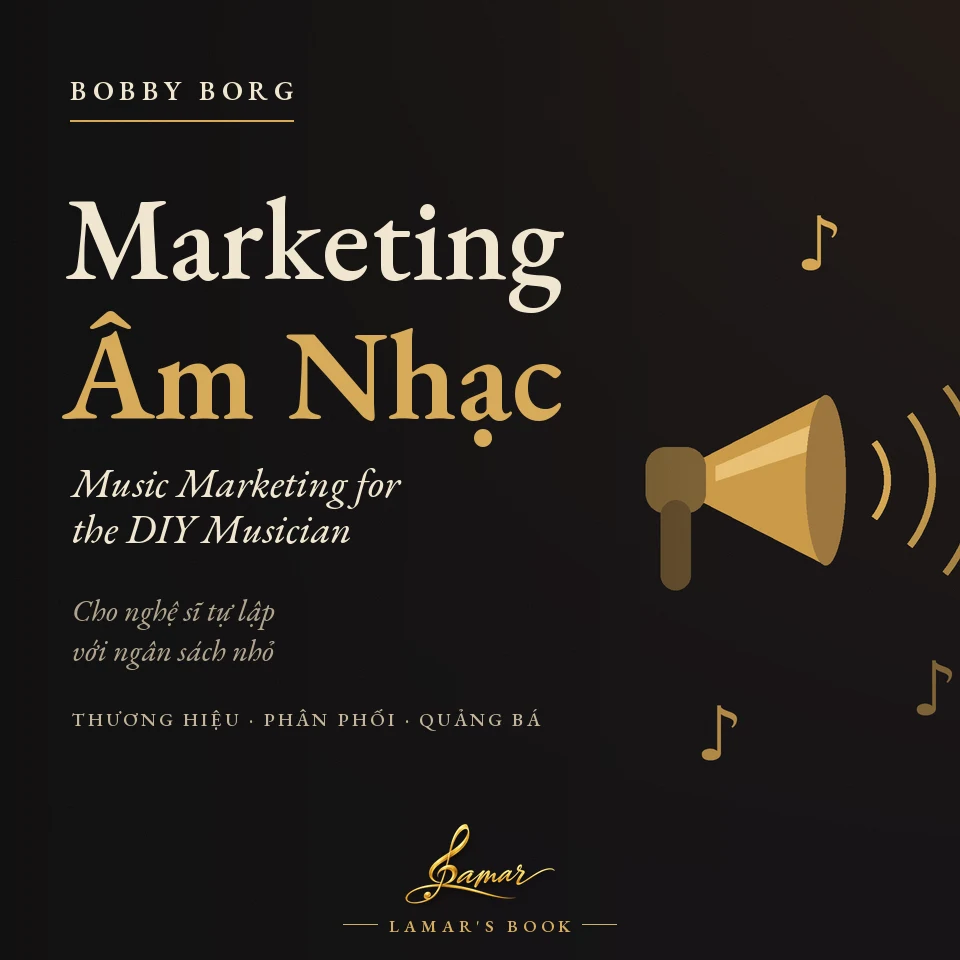
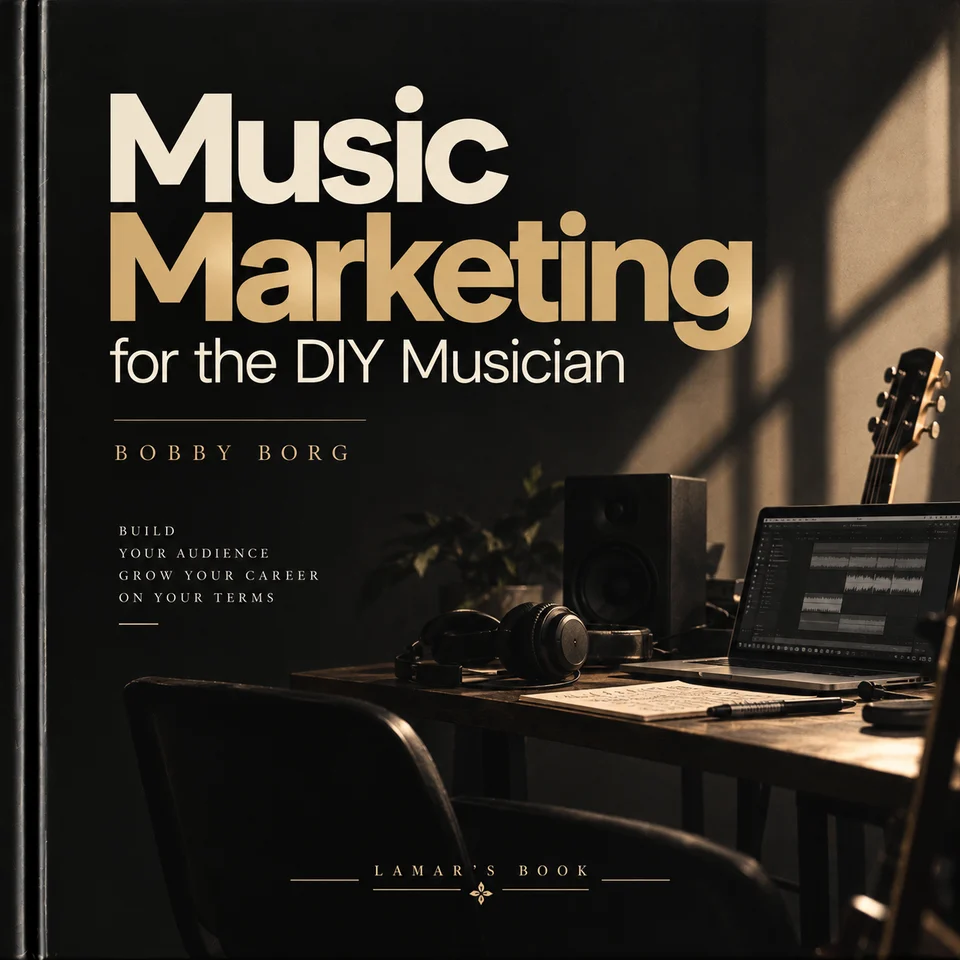
Bìa Marketing Âm Nhạc: dùng ảnh bìa Lamar gửi
Claude-Session: https://claude.ai/code/session_016DXmRVDzV1tugYS6YgVYK3

diff --git a/CLAUDE.md b/CLAUDE.md
@@ -47,7 +47,7 @@ npx tsc -b && npm run lint && npm run check:links && npm run build
 - **Nhạc mở đầu:** `components/introMusic.ts` phát chương IV Giao hưởng số 9 của Dvořák từ đúng nốt Mi đầu câu chủ đề kèn đồng (giây 16,08 của file gốc, dò cao độ) tới 44,5 s — 28,4 s, tắt dần cuối (`public/media/intro-dvorak9.{m4a,ogg}` — m4a cho Safari/Chrome, ogg Opus cho trình duyệt không chơi AAC; cắt từ file mp3 Lamar gửi; theo Lamar là bản Antal Doráti chỉ huy (file không có thẻ, chưa rõ dàn nhạc, năm thu; bản thu thương mại nên còn bản quyền)): mở dần khi vào màn khoá: trình duyệt cho tự phát thì phát thẳng `<audio>` (mờ dần bằng `audio.volume`, không tạo AudioContext vì nó sẽ bị treo ở trạng thái suspended khi chưa có cú chạm — lỗi cũ: chạy mà không ra tiếng); bị chặn thì nút loa nhấp nháy "Chạm để nghe nhạc" và cú chạm/phím đầu dựng Web Audio (iOS bỏ qua `audio.volume`) rồi phát từ đầu; tắt dần 2,2 s khi nhập đúng mã (`App.tsx`); nút loa góc trên trái màn khoá, nhớ tắt/bật ở localStorage `intro:muted`; Save-Data thì không phát.
 - **Logo:** chữ ký vàng "Lamar" (khoá Sol) trên nền đen — `BrandMark` trong `components/icons.tsx` dùng `src/assets/logo-mark.webp`; icon PWA/màn hình chính ở `public/icons/` (192, 512, maskable 512 có lề an toàn, `apple-touch-icon.png` 180), favicon `public/favicon.png`.
 - `src/features/onboarding/` — tour hướng dẫn (bước ở `Onboarding.tsx`, rọi vào phần tử `data-tour`; tự mở lần đầu sau khi mở khoá, mở lại ở Cài đặt → Hướng dẫn sử dụng). `src/features/search/` — bảng lệnh ⌘K tìm toàn app.
-- `src/features/curriculum/` — **Tủ sách** (tab điều hướng tên "Tủ sách", route vẫn `/curriculum`; dưới cover flow sách xếp theo **chủ đề** ở `shelfTopics.ts` (`SHELF_TOPICS`: id, `short` cho thanh chủ đề dính `TopicIndex`, tiêu đề, mô tả, danh sách id sách; sách chưa gán chủ đề tự vào "Sách khác"; cover flow dùng `SHELF_BOOKS` cùng thứ tự) — mỗi chủ đề là `TopicSection` (số thứ tự 01, 02… nghiêng vàng, eyebrow, tiêu đề serif, đường kẻ vàng) + lưới thẻ `ShelfBook` (`shelf-card`, ánh màu theo hue sách); CSS `topic-*`, `shelf-card*`, `shelf-btn` ở `motion-books.css`; **sách mới nhớ thêm id vào đúng chủ đề**) (đầu trang `/curriculum` là header căn giữa **Lamar's Book** trong `Shelf` của `CurriculumPage.tsx`: logo `logo-full.webp` + dòng LAMAR'S BOOK, tiêu đề, giới thiệu mục đích tủ sách, viên số sách/giáo trình; CSS `lamars-*` ở `motion-books.css`, giao diện sáng làm tối logo bằng `filter`): giáo trình piano người lớn theo cấp (`curricula.ts`), bộ 6 cuốn Piano & Nhạc lý cho Trẻ em (`kids/books.ts`, xem trên) và 17 sách lý thuyết trong `books.ts` (cả *Jazz Licks* và *Solfège*, xem trên) (thêm *The Jazz Theory Book — by Lamar*, **4 tập** cắt từ hằng `JAZZ_PARTS` (13 phần, 72 chương gom mọi bài mục `jazz` + bài liên quan ở mục khác, theo lộ trình hub `hoa-am-jazz`): id `jazz-theory-book-1` (Tập 1 Nền tảng, phần I–IV; id cũ `jazz-theory-book` của cuốn gộp được chuyển hướng, vị trí đọc/dấu trang/ghi chú cũ tự chia về đúng tập qua `jazzVolumeOf`/`splitOldJazz`), `jazz-theory-book-2` (Hoà âm và thế bấm, V–VII), `-3` (Tái hoà âm và hình thức, VIII–IX), `-4` (Ngẫu hứng và sáng tác, X–XIII); bìa `jazz-theory-book-1..4.webp` (bìa gốc + nhãn VOLUME), lời nói đầu chung `jazzPreface(n, phạm vi)`; Lamar soạn 100% — bài jazz không ghi nguồn The Jazz Piano Site, không dùng "theo TJPS") (thêm *Nghệ Thuật Chơi Piano — Heinrich Neuhaus*, id `neuhaus`, bìa `neuhaus.webp`, theo bộ bài `content/neuhaus-*.ts`: hub `neuhaus-lo-trinh` (bài tổng quan cũ `neuhaus-nghe-thuat-choi-piano` ở musicianship.ts giữ nguyên) + 12 bài theo chương, đọc từ epub bản Anh Kahn & Averill 1993 Lamar gửi, đối chiếu bản dịch Việt; ví dụ nhạc `::scan neuhaus #n` — 155 hình cắt từ epub) (thêm *Về Cái Đẹp Trong Âm Nhạc — Eduard Hanslick*, id `hanslick`, bìa `hanslick.webp` (chân dung phạm vi công cộng từ Commons), theo bộ bài `content/hanslick-*.ts` mục `musicology` (also `philosophy`): hub `hanslick-lo-trinh` + 11 bài theo 7 chương + bài di sản, đọc bằng OCR từ bản quét Cohen/Weitz 1957 trên ibiblio, trích dịch sát bản Anh và ghi trang ấn bản Weitz; các đoạn định kiến (phụ nữ, người Ý, "man dã") thuật đúng và ghi rõ là định kiến; nhóm riêng trong nhánh Mỹ học của `musicology/taxonomy.ts`) (thêm *Thế Giới Như Là Ý Chí Và Biểu Tượng — Arthur Schopenhauer*, id `schopenhauer`, bìa `schopenhauer.webp` (ảnh J. Schäfer 1859, phạm vi công cộng), theo bộ bài `content/schopenhauer-*.ts` mục `musicology` (also `philosophy`): hub `schopenhauer-lo-trinh` (bảng thuật ngữ Vorstellung = biểu tượng, Idee = Ý niệm…) + 13 bài: tiểu sử – lời tựa, Quyển I, II tóm gọn; Quyển III đọc theo đoạn §30 – 51 (6 bài); §52 âm nhạc 2 bài (bè trầm – bè giữa – giai điệu ↔ các bậc tự nhiên; giai điệu rời/trở về âm chủ, trưởng – thứ, chuyển giọng, lời ca – opera, universalia ante rem); Quyển IV; di sản (Wagner theo Wikipedia, ảnh hưởng theo SEP, so với Hanslick). Đọc bằng OCR bản quét Payne/Dover 1969 tập I Lamar gửi, trích dịch sát bản Anh, ghi trang Payne; tập II không có trong bản quét — các chương bổ sung Quyển III đọc từ bản Haldane & Kemp (Gutenberg #40868, tập III, phạm vi công cộng, ghi theo chương): `content/schopenhauer-f.ts` gồm 2 bài ch. XXXIX (`schopenhauer-sieu-hinh-hoc-am-nhac`, `schopenhauer-nhip-giai-dieu-va-nghich-am` — có ví dụ nhạc của chính Schopenhauer) và `schopenhauer-bo-sung-quyen-ba` (ch. XXIX – XXXVIII); phần âm nhạc (§52, ch. XXXIX) và trích dẫn chương bổ sung đã đối chiếu nguyên văn Đức (Zürcher Ausgabe trên zeno.org) — bảng "Đối chiếu nguyên văn" trong hai bài §52; hai câu bài Do Thái (§48 tr. 232, §51 tr. 254) thuật đúng và ghi rõ là định kiến; nhóm riêng trong nhánh Mỹ học của `musicology/taxonomy.ts`) (thêm *Quản Lý Nghệ Sĩ Trong Kinh Doanh Âm Nhạc — Paul Allen*, id `quan-ly-nghe-si`, bìa `quan-ly-nghe-si.webp` (vẽ bằng PIL — sân khấu, đèn rọi, micro, khán giả; không dùng ảnh), theo bộ bài `content/allen-*.ts` mục `musicology`: hub `quan-ly-nghe-si-lo-trinh` + 14 bài theo 14 chương bản 5 (Routledge 2022, epub Lamar gửi; nguồn `allen-refs.ts`), slug `quan-ly-nghe-si-*`; sách còn bản quyền nên bài tóm lược bằng lời mình, trích ngắn kèm số trang bản in; chỗ sách sai/lỗi thời ghi rõ trong bài (SoundExchange thu cho bản ghi; tác quyền cơ học Mỹ 12 xu từ 2023; quỹ Coogan California 15%; câu "Michelangelo" không nguồn); luật Mỹ có ghi chú ngắn về Việt Nam (Luật SHTT, VCPMC); nhóm riêng trong nhánh "Đại chúng, màn ảnh và thị trường" của `musicology/taxonomy.ts`) (thêm *Cỗ Máy Hãng Đĩa — Nick Sadler*, id `co-may-hang-dia`, bìa `co-may-hang-dia.webp` (vẽ bằng PIL — đĩa than, nhãn hình bánh răng; script `scratchpad/acover/mk_l.py` dùng `badge.py`), theo bộ bài `content/hang-dia-*.ts` mục `musicology`: hub `hang-dia-lo-trinh` + 15 bài `hang-dia-*` theo *The Label Machine* bản 2025 (Velocity Press, epub Lamar gửi; nguồn `hang-dia-refs.ts`); 5 phần: ngành nhạc, bản quyền, dựng hãng, phát hành – tiếp thị, trưởng thành; sách còn bản quyền nên tóm lược bằng lời mình, trích ngắn kèm số trang bản in; mức phí dịch vụ ghi "theo sách"; lược phần quảng cáo nền tảng của tác giả (ghi là xung đột lợi ích); chỗ sửa: tác quyền cơ học Mỹ 2025 là 12,7 xu (sách 12,4), ngưỡng YouTube 500 người chỉ mở gây quỹ (quảng cáo cần 1.000), câu "giữa kích thích và phản ứng" không phải của Frankl, binaural beats bằng chứng còn hạn chế, Ashley Wilde là nhân vật minh hoạ; nhóm riêng trong nhánh "Đại chúng, màn ảnh và thị trường" của `musicology/taxonomy.ts`) (thêm *Marketing Âm Nhạc Cho Nghệ Sĩ Tự Lập — Bobby Borg*, id `marketing-diy`, bìa `marketing-diy.webp` (vẽ bằng PIL — loa phóng thanh, sóng âm; script `scratchpad/acover/mk_m.py`), theo bộ bài `content/borg-*.ts` mục `musicology`: hub `marketing-diy-lo-trinh` + 22 bài `marketing-diy-*` theo 22 chương *Music Marketing for the DIY Musician* bản 2 (Rowman & Littlefield 2020, epub Lamar gửi; nguồn `borg-refs.ts`); 5 phần: nghiên cứu – mục tiêu, thương hiệu – sản phẩm – giá, phân phối, quảng bá, đo lường – kế hoạch – thực thi; sách còn bản quyền nên tóm lược bằng lời mình, trích ngắn kèm số trang bản in, không chép mẫu điền / kế hoạch mẫu / danh mục dịch vụ; ghi rõ dịch vụ đã đóng/đổi tên (PledgeMusic, Arbitron, AdWords, E3, Yahoo Groups), câu Wanamaker chưa có bằng chứng, lỗi tên (Clandini → Cialdini, Goodwin → Godin), bảng tính cộng lệch, phỏng vấn mang tính quảng cáo (TAXI, Indie Bible); nhóm riêng trong nhánh "Đại chúng, màn ảnh và thị trường" của `musicology/taxonomy.ts`) (thêm *Âm Nhạc Việt Nam*, id `am-nhac-viet-nam`, bìa `am-nhac-viet-nam.webp` (ảnh bìa Lamar gửi, đã có sẵn dòng LAMAR'S BOOK), 12 phần – 114 chương gom mọi bài mục `vietnam` + bài Việt Nam ở mục khác (nhạc khí `organology`, `am-giai-ngu-cung`, `tan-nhac-viet-nam`, `piano-viet-nam`, `dem-dieu-viet-nam`, `viet-cho-loi-ca`, `sang-tac-voi-chat-lieu-viet`, `di-san-phi-vat-the-va-am-nhac`…): nhập môn → cổ – trung đại → lý thuyết cổ truyền → dân ca – tín ngưỡng → thính phòng – sân khấu → nhạc khí → tân nhạc → 1945 – 1975 → sau 1975 → hai phần chân dung nhạc sĩ theo năm sinh → thực hành – nghiên cứu – đề cương ôn thi; bài Việt Nam mới nhớ thêm vào đúng phần) (thêm *Hình Thức Âm Nhạc — Trường phái Nga – Xô viết*, id `hinh-thuc-am-nhac`, bìa `hinh-thuc-am-nhac.webp`) (*Nhạc Lý Cơ Bản* Quyển 1 – 2; *Hoà Âm Cổ Điển — Trường phái Nga – Xô viết* theo thứ tự chủ đề sách bốn tác giả Dubovsky – Evseev – Sposobin – Sokolov, bìa ảnh `src/assets/covers/hoa-am-co-dien.webp` qua `coverImage`; *Phức Điệu Nghiêm Khắc — Sergei Taneev* chỉ hệ Taneyev theo giáo trình Nhạc viện Hà Nội (Phạm Tú Hương 1991), bìa `phuc-dieu-nghiem-khac.webp`; *Những Bước Lên Đỉnh Parnassus — Johann Joseph Fux* (id `doi-am-fux`) chỉ hệ Fux, bìa `doi-am-fux.webp`. *Bass Đi Liên Tục, Hoà Âm và Sáng Tác — J. G. Albrechtsberger* (id `albrechtsberger`, bìa `albrechtsberger.webp`), 10 phần theo ba tập bản Novello 1855. Hai hệ tách riêng cả sách lẫn bài: bài hệ Taneyev không chứa nội dung Fux và ngược lại, chỉ giữ link chéo một dòng): phần → bài = slug bài thư viện, lời nói đầu, bài tập cuối phần. **Bìa:** sách Lamar tự soạn (Nhạc Lý Cơ Bản 1 – 2 `nhac-ly-co-ban-{1,2}.webp`, hai giáo trình piano `piano-tre-em.webp` / `piano-nguoi-lon.webp` qua `Curriculum.coverImage`, Jazz, Hoà Âm Cổ Điển, Phức Điệu) ghi "by Lamar"; sách đọc theo tác giả khác (Albrechtsberger, Fux, Hình thức, Neuhaus, Hanslick, Schopenhauer, Allen) không ghi "Lamar biên soạn" mà có dấu **Lamar's book** (chữ ký vàng `logo-full.webp` + dòng LAMAR'S BOOK) ở giữa phía dưới, nướng thẳng vào ảnh webp. Mọi sách và giáo trình có "Lời nói đầu" mở bằng `foreword()` (Lamar biên soạn – tổng hợp, Lamar hướng đến) và trang "Về tác giả" (`ABOUT_AUTHOR`). Tick "đã học" lưu localStorage.
+- `src/features/curriculum/` — **Tủ sách** (tab điều hướng tên "Tủ sách", route vẫn `/curriculum`; dưới cover flow sách xếp theo **chủ đề** ở `shelfTopics.ts` (`SHELF_TOPICS`: id, `short` cho thanh chủ đề dính `TopicIndex`, tiêu đề, mô tả, danh sách id sách; sách chưa gán chủ đề tự vào "Sách khác"; cover flow dùng `SHELF_BOOKS` cùng thứ tự) — mỗi chủ đề là `TopicSection` (số thứ tự 01, 02… nghiêng vàng, eyebrow, tiêu đề serif, đường kẻ vàng) + lưới thẻ `ShelfBook` (`shelf-card`, ánh màu theo hue sách); CSS `topic-*`, `shelf-card*`, `shelf-btn` ở `motion-books.css`; **sách mới nhớ thêm id vào đúng chủ đề**) (đầu trang `/curriculum` là header căn giữa **Lamar's Book** trong `Shelf` của `CurriculumPage.tsx`: logo `logo-full.webp` + dòng LAMAR'S BOOK, tiêu đề, giới thiệu mục đích tủ sách, viên số sách/giáo trình; CSS `lamars-*` ở `motion-books.css`, giao diện sáng làm tối logo bằng `filter`): giáo trình piano người lớn theo cấp (`curricula.ts`), bộ 6 cuốn Piano & Nhạc lý cho Trẻ em (`kids/books.ts`, xem trên) và 17 sách lý thuyết trong `books.ts` (cả *Jazz Licks* và *Solfège*, xem trên) (thêm *The Jazz Theory Book — by Lamar*, **4 tập** cắt từ hằng `JAZZ_PARTS` (13 phần, 72 chương gom mọi bài mục `jazz` + bài liên quan ở mục khác, theo lộ trình hub `hoa-am-jazz`): id `jazz-theory-book-1` (Tập 1 Nền tảng, phần I–IV; id cũ `jazz-theory-book` của cuốn gộp được chuyển hướng, vị trí đọc/dấu trang/ghi chú cũ tự chia về đúng tập qua `jazzVolumeOf`/`splitOldJazz`), `jazz-theory-book-2` (Hoà âm và thế bấm, V–VII), `-3` (Tái hoà âm và hình thức, VIII–IX), `-4` (Ngẫu hứng và sáng tác, X–XIII); bìa `jazz-theory-book-1..4.webp` (bìa gốc + nhãn VOLUME), lời nói đầu chung `jazzPreface(n, phạm vi)`; Lamar soạn 100% — bài jazz không ghi nguồn The Jazz Piano Site, không dùng "theo TJPS") (thêm *Nghệ Thuật Chơi Piano — Heinrich Neuhaus*, id `neuhaus`, bìa `neuhaus.webp`, theo bộ bài `content/neuhaus-*.ts`: hub `neuhaus-lo-trinh` (bài tổng quan cũ `neuhaus-nghe-thuat-choi-piano` ở musicianship.ts giữ nguyên) + 12 bài theo chương, đọc từ epub bản Anh Kahn & Averill 1993 Lamar gửi, đối chiếu bản dịch Việt; ví dụ nhạc `::scan neuhaus #n` — 155 hình cắt từ epub) (thêm *Về Cái Đẹp Trong Âm Nhạc — Eduard Hanslick*, id `hanslick`, bìa `hanslick.webp` (chân dung phạm vi công cộng từ Commons), theo bộ bài `content/hanslick-*.ts` mục `musicology` (also `philosophy`): hub `hanslick-lo-trinh` + 11 bài theo 7 chương + bài di sản, đọc bằng OCR từ bản quét Cohen/Weitz 1957 trên ibiblio, trích dịch sát bản Anh và ghi trang ấn bản Weitz; các đoạn định kiến (phụ nữ, người Ý, "man dã") thuật đúng và ghi rõ là định kiến; nhóm riêng trong nhánh Mỹ học của `musicology/taxonomy.ts`) (thêm *Thế Giới Như Là Ý Chí Và Biểu Tượng — Arthur Schopenhauer*, id `schopenhauer`, bìa `schopenhauer.webp` (ảnh J. Schäfer 1859, phạm vi công cộng), theo bộ bài `content/schopenhauer-*.ts` mục `musicology` (also `philosophy`): hub `schopenhauer-lo-trinh` (bảng thuật ngữ Vorstellung = biểu tượng, Idee = Ý niệm…) + 13 bài: tiểu sử – lời tựa, Quyển I, II tóm gọn; Quyển III đọc theo đoạn §30 – 51 (6 bài); §52 âm nhạc 2 bài (bè trầm – bè giữa – giai điệu ↔ các bậc tự nhiên; giai điệu rời/trở về âm chủ, trưởng – thứ, chuyển giọng, lời ca – opera, universalia ante rem); Quyển IV; di sản (Wagner theo Wikipedia, ảnh hưởng theo SEP, so với Hanslick). Đọc bằng OCR bản quét Payne/Dover 1969 tập I Lamar gửi, trích dịch sát bản Anh, ghi trang Payne; tập II không có trong bản quét — các chương bổ sung Quyển III đọc từ bản Haldane & Kemp (Gutenberg #40868, tập III, phạm vi công cộng, ghi theo chương): `content/schopenhauer-f.ts` gồm 2 bài ch. XXXIX (`schopenhauer-sieu-hinh-hoc-am-nhac`, `schopenhauer-nhip-giai-dieu-va-nghich-am` — có ví dụ nhạc của chính Schopenhauer) và `schopenhauer-bo-sung-quyen-ba` (ch. XXIX – XXXVIII); phần âm nhạc (§52, ch. XXXIX) và trích dẫn chương bổ sung đã đối chiếu nguyên văn Đức (Zürcher Ausgabe trên zeno.org) — bảng "Đối chiếu nguyên văn" trong hai bài §52; hai câu bài Do Thái (§48 tr. 232, §51 tr. 254) thuật đúng và ghi rõ là định kiến; nhóm riêng trong nhánh Mỹ học của `musicology/taxonomy.ts`) (thêm *Quản Lý Nghệ Sĩ Trong Kinh Doanh Âm Nhạc — Paul Allen*, id `quan-ly-nghe-si`, bìa `quan-ly-nghe-si.webp` (vẽ bằng PIL — sân khấu, đèn rọi, micro, khán giả; không dùng ảnh), theo bộ bài `content/allen-*.ts` mục `musicology`: hub `quan-ly-nghe-si-lo-trinh` + 14 bài theo 14 chương bản 5 (Routledge 2022, epub Lamar gửi; nguồn `allen-refs.ts`), slug `quan-ly-nghe-si-*`; sách còn bản quyền nên bài tóm lược bằng lời mình, trích ngắn kèm số trang bản in; chỗ sách sai/lỗi thời ghi rõ trong bài (SoundExchange thu cho bản ghi; tác quyền cơ học Mỹ 12 xu từ 2023; quỹ Coogan California 15%; câu "Michelangelo" không nguồn); luật Mỹ có ghi chú ngắn về Việt Nam (Luật SHTT, VCPMC); nhóm riêng trong nhánh "Đại chúng, màn ảnh và thị trường" của `musicology/taxonomy.ts`) (thêm *Cỗ Máy Hãng Đĩa — Nick Sadler*, id `co-may-hang-dia`, bìa `co-may-hang-dia.webp` (vẽ bằng PIL — đĩa than, nhãn hình bánh răng; script `scratchpad/acover/mk_l.py` dùng `badge.py`), theo bộ bài `content/hang-dia-*.ts` mục `musicology`: hub `hang-dia-lo-trinh` + 15 bài `hang-dia-*` theo *The Label Machine* bản 2025 (Velocity Press, epub Lamar gửi; nguồn `hang-dia-refs.ts`); 5 phần: ngành nhạc, bản quyền, dựng hãng, phát hành – tiếp thị, trưởng thành; sách còn bản quyền nên tóm lược bằng lời mình, trích ngắn kèm số trang bản in; mức phí dịch vụ ghi "theo sách"; lược phần quảng cáo nền tảng của tác giả (ghi là xung đột lợi ích); chỗ sửa: tác quyền cơ học Mỹ 2025 là 12,7 xu (sách 12,4), ngưỡng YouTube 500 người chỉ mở gây quỹ (quảng cáo cần 1.000), câu "giữa kích thích và phản ứng" không phải của Frankl, binaural beats bằng chứng còn hạn chế, Ashley Wilde là nhân vật minh hoạ; nhóm riêng trong nhánh "Đại chúng, màn ảnh và thị trường" của `musicology/taxonomy.ts`) (thêm *Marketing Âm Nhạc Cho Nghệ Sĩ Tự Lập — Bobby Borg*, id `marketing-diy`, bìa `marketing-diy.webp` (ảnh bìa Lamar gửi, 960 px, đã có LAMAR'S BOOK), theo bộ bài `content/borg-*.ts` mục `musicology`: hub `marketing-diy-lo-trinh` + 22 bài `marketing-diy-*` theo 22 chương *Music Marketing for the DIY Musician* bản 2 (Rowman & Littlefield 2020, epub Lamar gửi; nguồn `borg-refs.ts`); 5 phần: nghiên cứu – mục tiêu, thương hiệu – sản phẩm – giá, phân phối, quảng bá, đo lường – kế hoạch – thực thi; sách còn bản quyền nên tóm lược bằng lời mình, trích ngắn kèm số trang bản in, không chép mẫu điền / kế hoạch mẫu / danh mục dịch vụ; ghi rõ dịch vụ đã đóng/đổi tên (PledgeMusic, Arbitron, AdWords, E3, Yahoo Groups), câu Wanamaker chưa có bằng chứng, lỗi tên (Clandini → Cialdini, Goodwin → Godin), bảng tính cộng lệch, phỏng vấn mang tính quảng cáo (TAXI, Indie Bible); nhóm riêng trong nhánh "Đại chúng, màn ảnh và thị trường" của `musicology/taxonomy.ts`) (thêm *Âm Nhạc Việt Nam*, id `am-nhac-viet-nam`, bìa `am-nhac-viet-nam.webp` (ảnh bìa Lamar gửi, đã có sẵn dòng LAMAR'S BOOK), 12 phần – 114 chương gom mọi bài mục `vietnam` + bài Việt Nam ở mục khác (nhạc khí `organology`, `am-giai-ngu-cung`, `tan-nhac-viet-nam`, `piano-viet-nam`, `dem-dieu-viet-nam`, `viet-cho-loi-ca`, `sang-tac-voi-chat-lieu-viet`, `di-san-phi-vat-the-va-am-nhac`…): nhập môn → cổ – trung đại → lý thuyết cổ truyền → dân ca – tín ngưỡng → thính phòng – sân khấu → nhạc khí → tân nhạc → 1945 – 1975 → sau 1975 → hai phần chân dung nhạc sĩ theo năm sinh → thực hành – nghiên cứu – đề cương ôn thi; bài Việt Nam mới nhớ thêm vào đúng phần) (thêm *Hình Thức Âm Nhạc — Trường phái Nga – Xô viết*, id `hinh-thuc-am-nhac`, bìa `hinh-thuc-am-nhac.webp`) (*Nhạc Lý Cơ Bản* Quyển 1 – 2; *Hoà Âm Cổ Điển — Trường phái Nga – Xô viết* theo thứ tự chủ đề sách bốn tác giả Dubovsky – Evseev – Sposobin – Sokolov, bìa ảnh `src/assets/covers/hoa-am-co-dien.webp` qua `coverImage`; *Phức Điệu Nghiêm Khắc — Sergei Taneev* chỉ hệ Taneyev theo giáo trình Nhạc viện Hà Nội (Phạm Tú Hương 1991), bìa `phuc-dieu-nghiem-khac.webp`; *Những Bước Lên Đỉnh Parnassus — Johann Joseph Fux* (id `doi-am-fux`) chỉ hệ Fux, bìa `doi-am-fux.webp`. *Bass Đi Liên Tục, Hoà Âm và Sáng Tác — J. G. Albrechtsberger* (id `albrechtsberger`, bìa `albrechtsberger.webp`), 10 phần theo ba tập bản Novello 1855. Hai hệ tách riêng cả sách lẫn bài: bài hệ Taneyev không chứa nội dung Fux và ngược lại, chỉ giữ link chéo một dòng): phần → bài = slug bài thư viện, lời nói đầu, bài tập cuối phần. **Bìa:** sách Lamar tự soạn (Nhạc Lý Cơ Bản 1 – 2 `nhac-ly-co-ban-{1,2}.webp`, hai giáo trình piano `piano-tre-em.webp` / `piano-nguoi-lon.webp` qua `Curriculum.coverImage`, Jazz, Hoà Âm Cổ Điển, Phức Điệu) ghi "by Lamar"; sách đọc theo tác giả khác (Albrechtsberger, Fux, Hình thức, Neuhaus, Hanslick, Schopenhauer, Allen) không ghi "Lamar biên soạn" mà có dấu **Lamar's book** (chữ ký vàng `logo-full.webp` + dòng LAMAR'S BOOK) ở giữa phía dưới, nướng thẳng vào ảnh webp. Mọi sách và giáo trình có "Lời nói đầu" mở bằng `foreword()` (Lamar biên soạn – tổng hợp, Lamar hướng đến) và trang "Về tác giả" (`ABOUT_AUTHOR`). Tick "đã học" lưu localStorage.
   - `reader/`: trình đọc kiểu EPUB (`Reader.tsx`, phân trang bằng CSS columns, lật trang bằng `scrollLeft` của `.reader-flow` (overflow hidden) — **không dùng transform/will-change trên dải cột**: dải cả chương thành một lớp GPU khổng lồ, chương dài làm Android đứng nhiều giây; `curl.ts` chép `scrollLeft` sang bản chụp qua `data-sx`; bảng trong trình đọc được ngắt qua trang, màn hẹp xếp thẻ (`data-cols`/`data-label` từ `Markup.tsx`), 2 trang trên màn rộng, vuốt/phím/lăn chuột, mục lục, dấu trang, tìm trong sách, cỡ chữ – phông – nền Giấy/Sepia/Đêm; vị trí đọc và dấu trang ở `store.ts`; tô màu – ghi chú ở `notes.ts` + `Annotator.tsx`: neo theo đoạn trích + 40 ký tự trước, vẽ bằng CSS Custom Highlight API, bảng "Ghi chú và đánh dấu" lọc/tìm/xuất Markdown, lưu localStorage `reader:notes` (scope = id sách, hoặc `thu-vien` cho bài Lý thuyết; có thẻ `tags`; nằm trong bản sao lưu ở Cài đặt). Annotator cũng gắn vào bài thư viện (`TheoryPage`). Trang `/notes` Sổ nghiên cứu (`features/notebook/`) gom mọi ghi chú, lọc màu/thẻ/nguồn, mở đúng chỗ, xuất Markdown), trang bìa trong trình đọc (`CoverPage` ở `Pages.tsx`, CSS `reader/cover-page.css`, lớp `rc-*`): bìa nghiêng 3D có gáy, mép giấy, bóng sàn, vầng sáng mờ lấy từ chính ảnh bìa; dòng LAMAR'S BOOK (giáo trình: GIÁO TRÌNH PIANO), tên sách, tập/tác giả nghiêng vàng, phụ đề, số phần – số bài, nút vàng "Bắt đầu đọc" + nút viền "Mục lục"; chữ căn giữa đè luật justify của trang; `.rc` cao đúng `--page-h` và là container: khung sách `rc-stage` lấy phần cao còn lại, sách vuông co theo `cqh` nên không bao giờ bị cắt; màn hẹp thấp (≤ 760 px) thu gọn chữ, phụ đề 3 dòng, ≤ 560 px ẩn phụ đề. `model.ts` dựng mọi sách/giáo trình thành chuỗi mục (bìa, lời nói đầu, mục lục, phần, chương), `PrintBook.tsx` dàn trang in → "Lưu dưới dạng PDF". `Pages.tsx` trình bày như sách giáo khoa (dùng chung cho đọc và in): mỗi chương là **Bài n** — mục tiêu, mục đánh số n.1, Hình/Bảng n.k (CSS counters), tham chiếu chéo "(Bài k)" qua `theory/linkRef.ts`, Tóm tắt, Câu hỏi ôn tập (lấy từ quiz theo slug), tài liệu tham khảo; trang mở phần, trang Ôn tập cuối phần, Đáp án cuối sách; tiêu đề chạy và số trang n.p.
   - Route: `/curriculum` giá sách · `/curriculum/:id/:slug` đọc (chương = slug thư viện) · `/curriculum/:id/in` in/PDF · `/curriculum/:id/tong-quan` tổng quan giáo trình piano.
 
